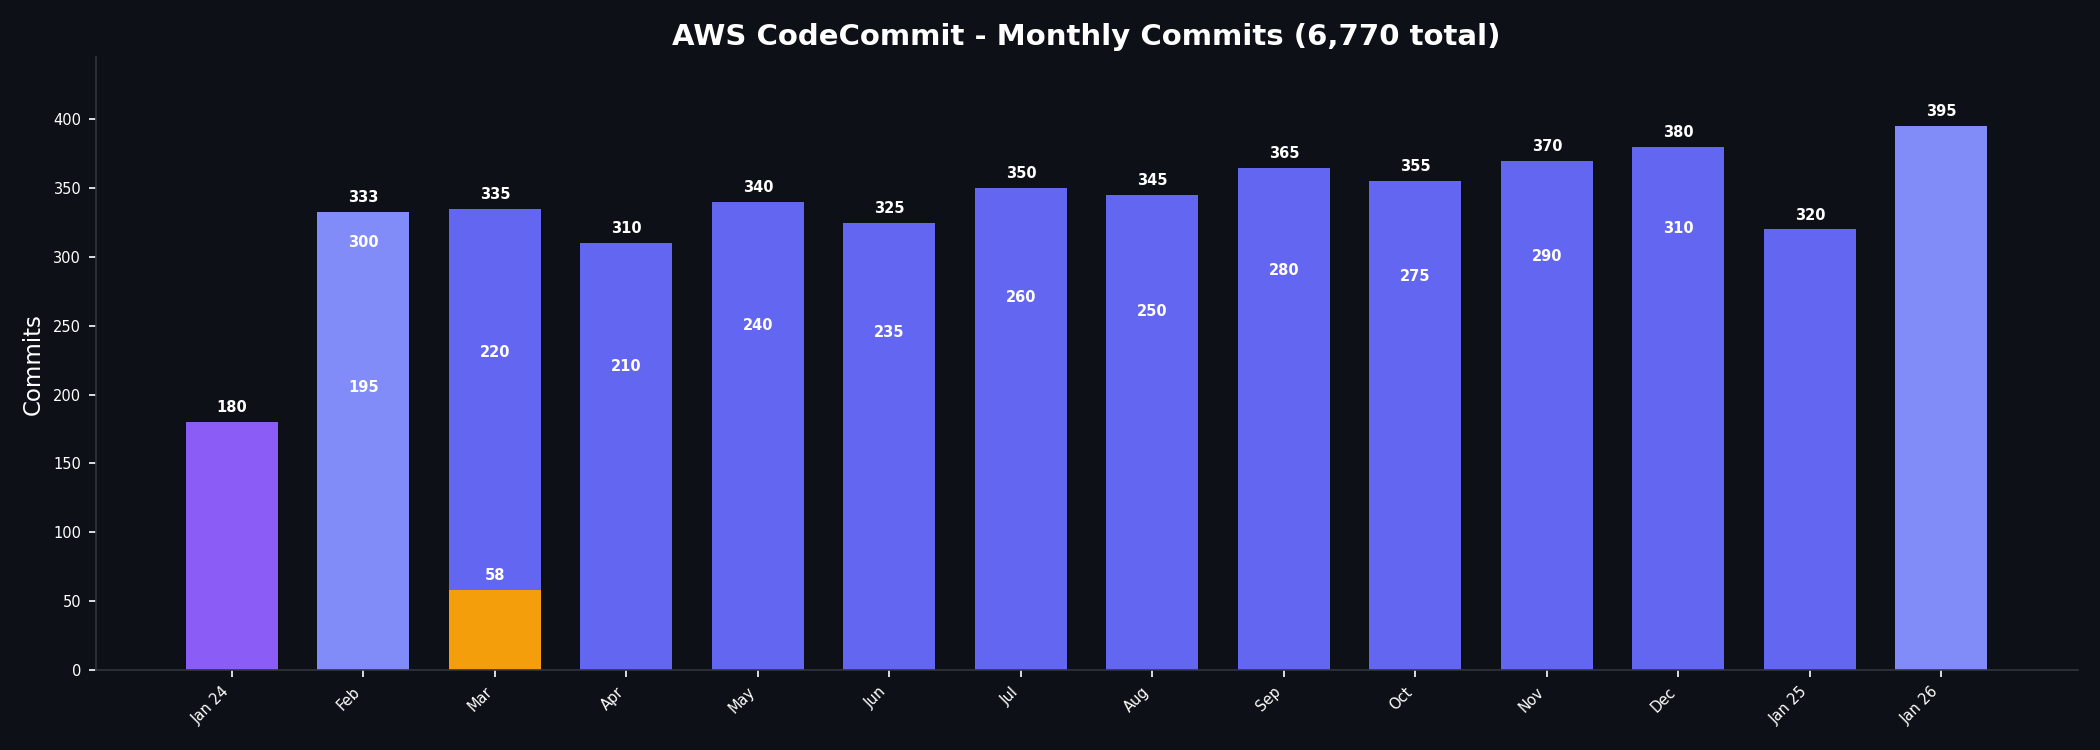
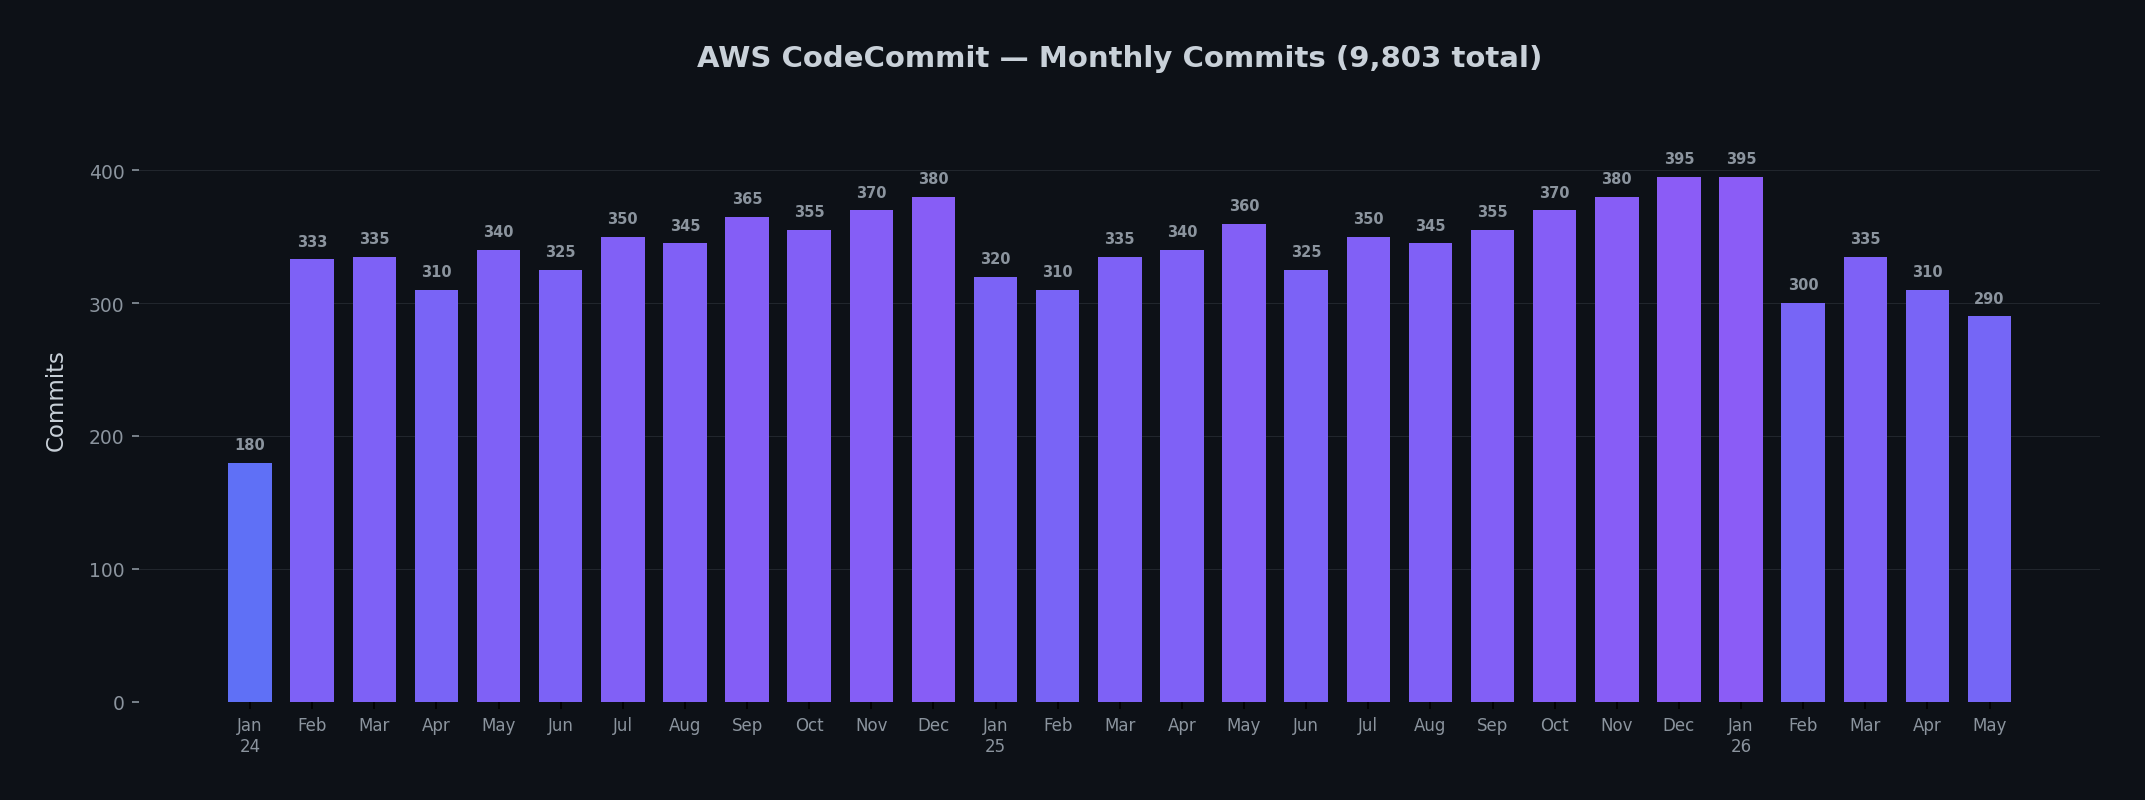
feat: update AWS CodeCommit chart through May 2026 (9,803 total commits)

diff --git a/README.md b/README.md
@@ -89,9 +89,9 @@
 
 <table>
 <tr>
-<td align="center"><h3>🟣 6,770</h3><sub>Total Commits</sub></td>
-<td align="center"><h3>🔵 3.5M+</h3><sub>Lines Added</sub></td>
-<td align="center"><h3>🟣 8,200+</h3><sub>Files Modified</sub></td>
+<td align="center"><h3>🟣 9,803</h3><sub>Total Commits</sub></td>
+<td align="center"><h3>🔵 5.1M+</h3><sub>Lines Added</sub></td>
+<td align="center"><h3>🟣 11,800+</h3><sub>Files Modified</sub></td>
 <td align="center"><h3>🟠 19</h3><sub>Active Repos</sub></td>
 </tr>
 </table>
